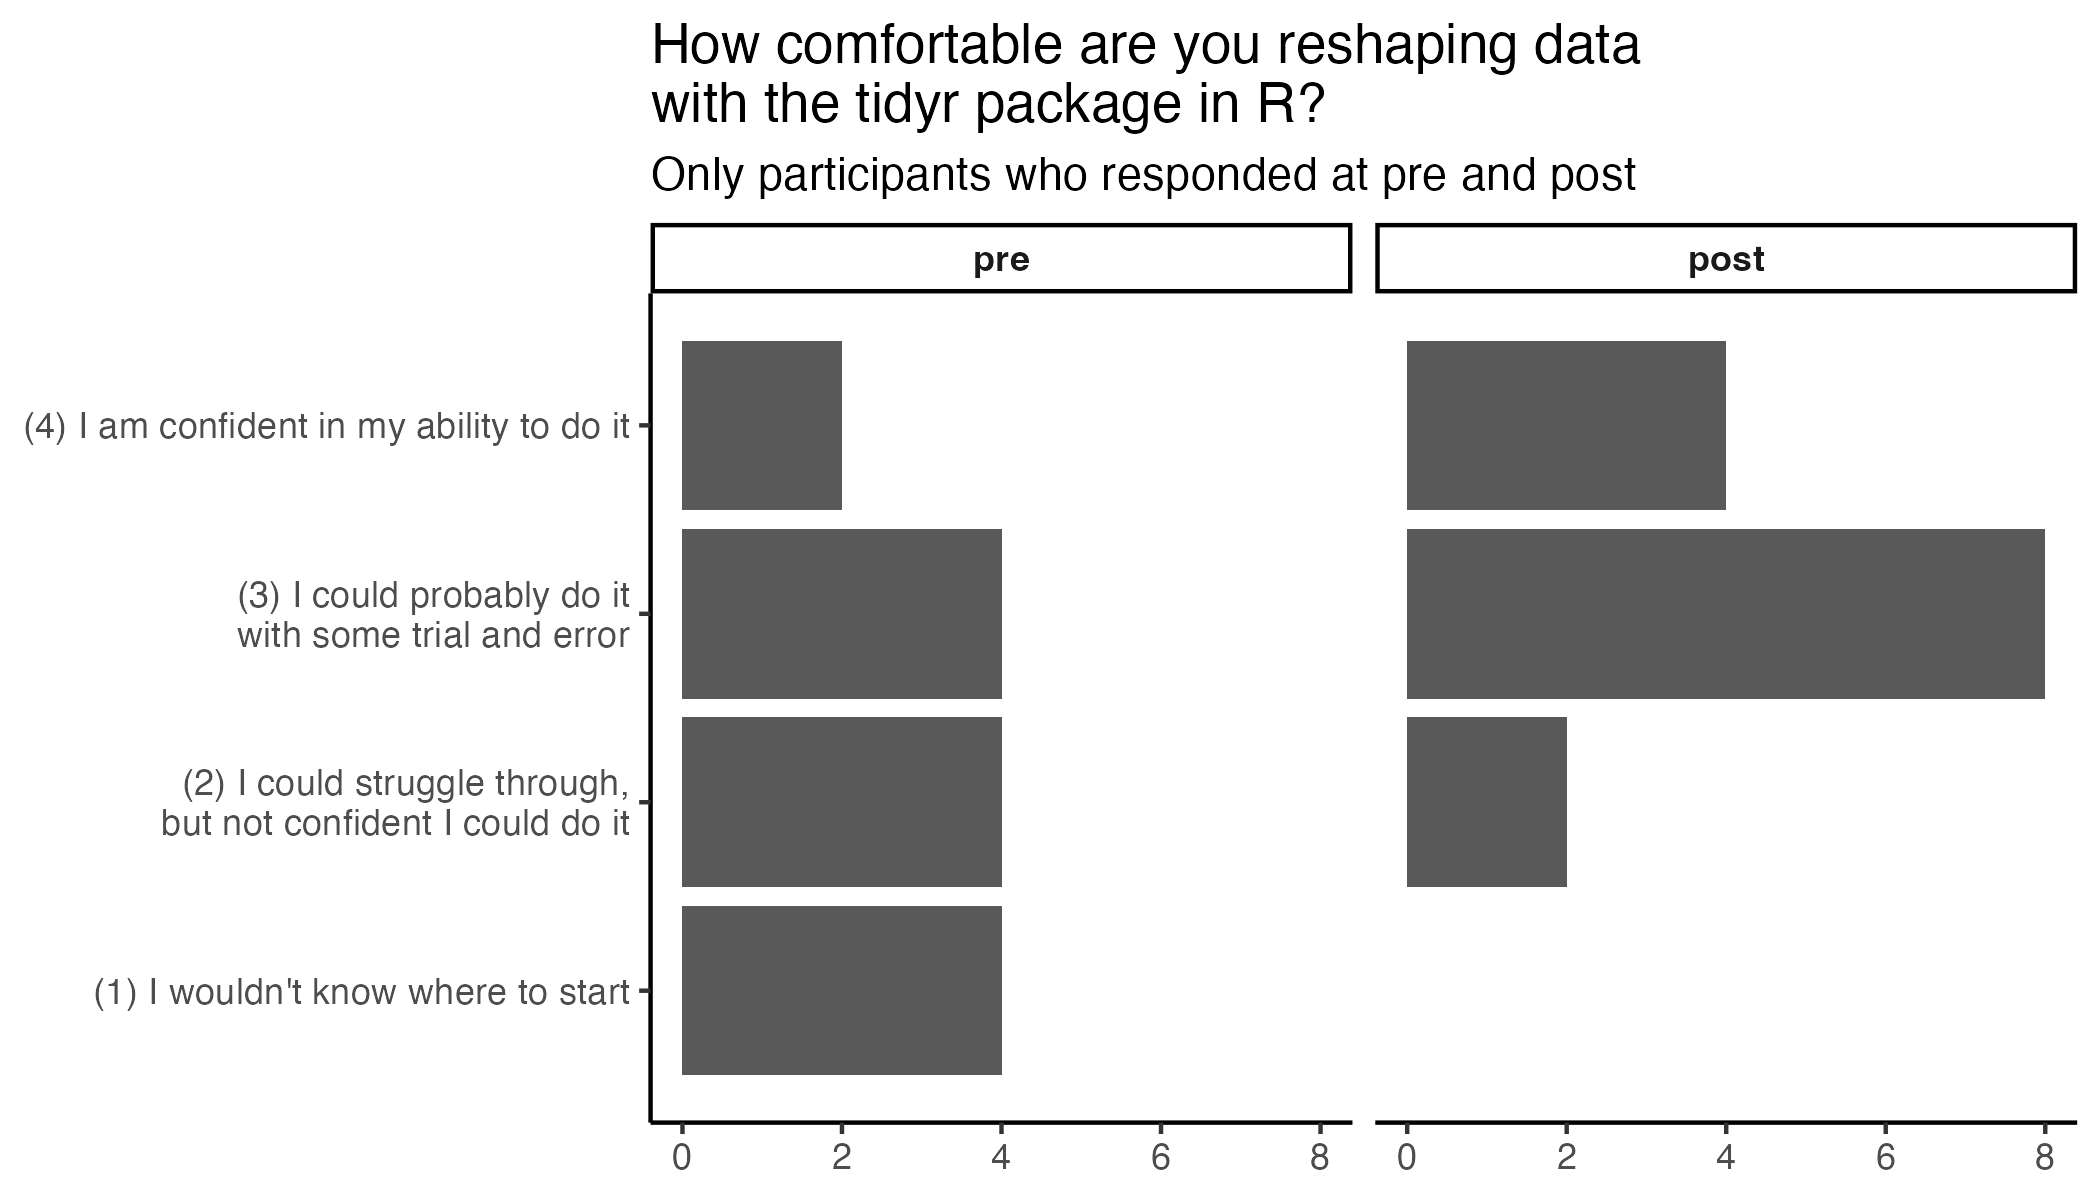
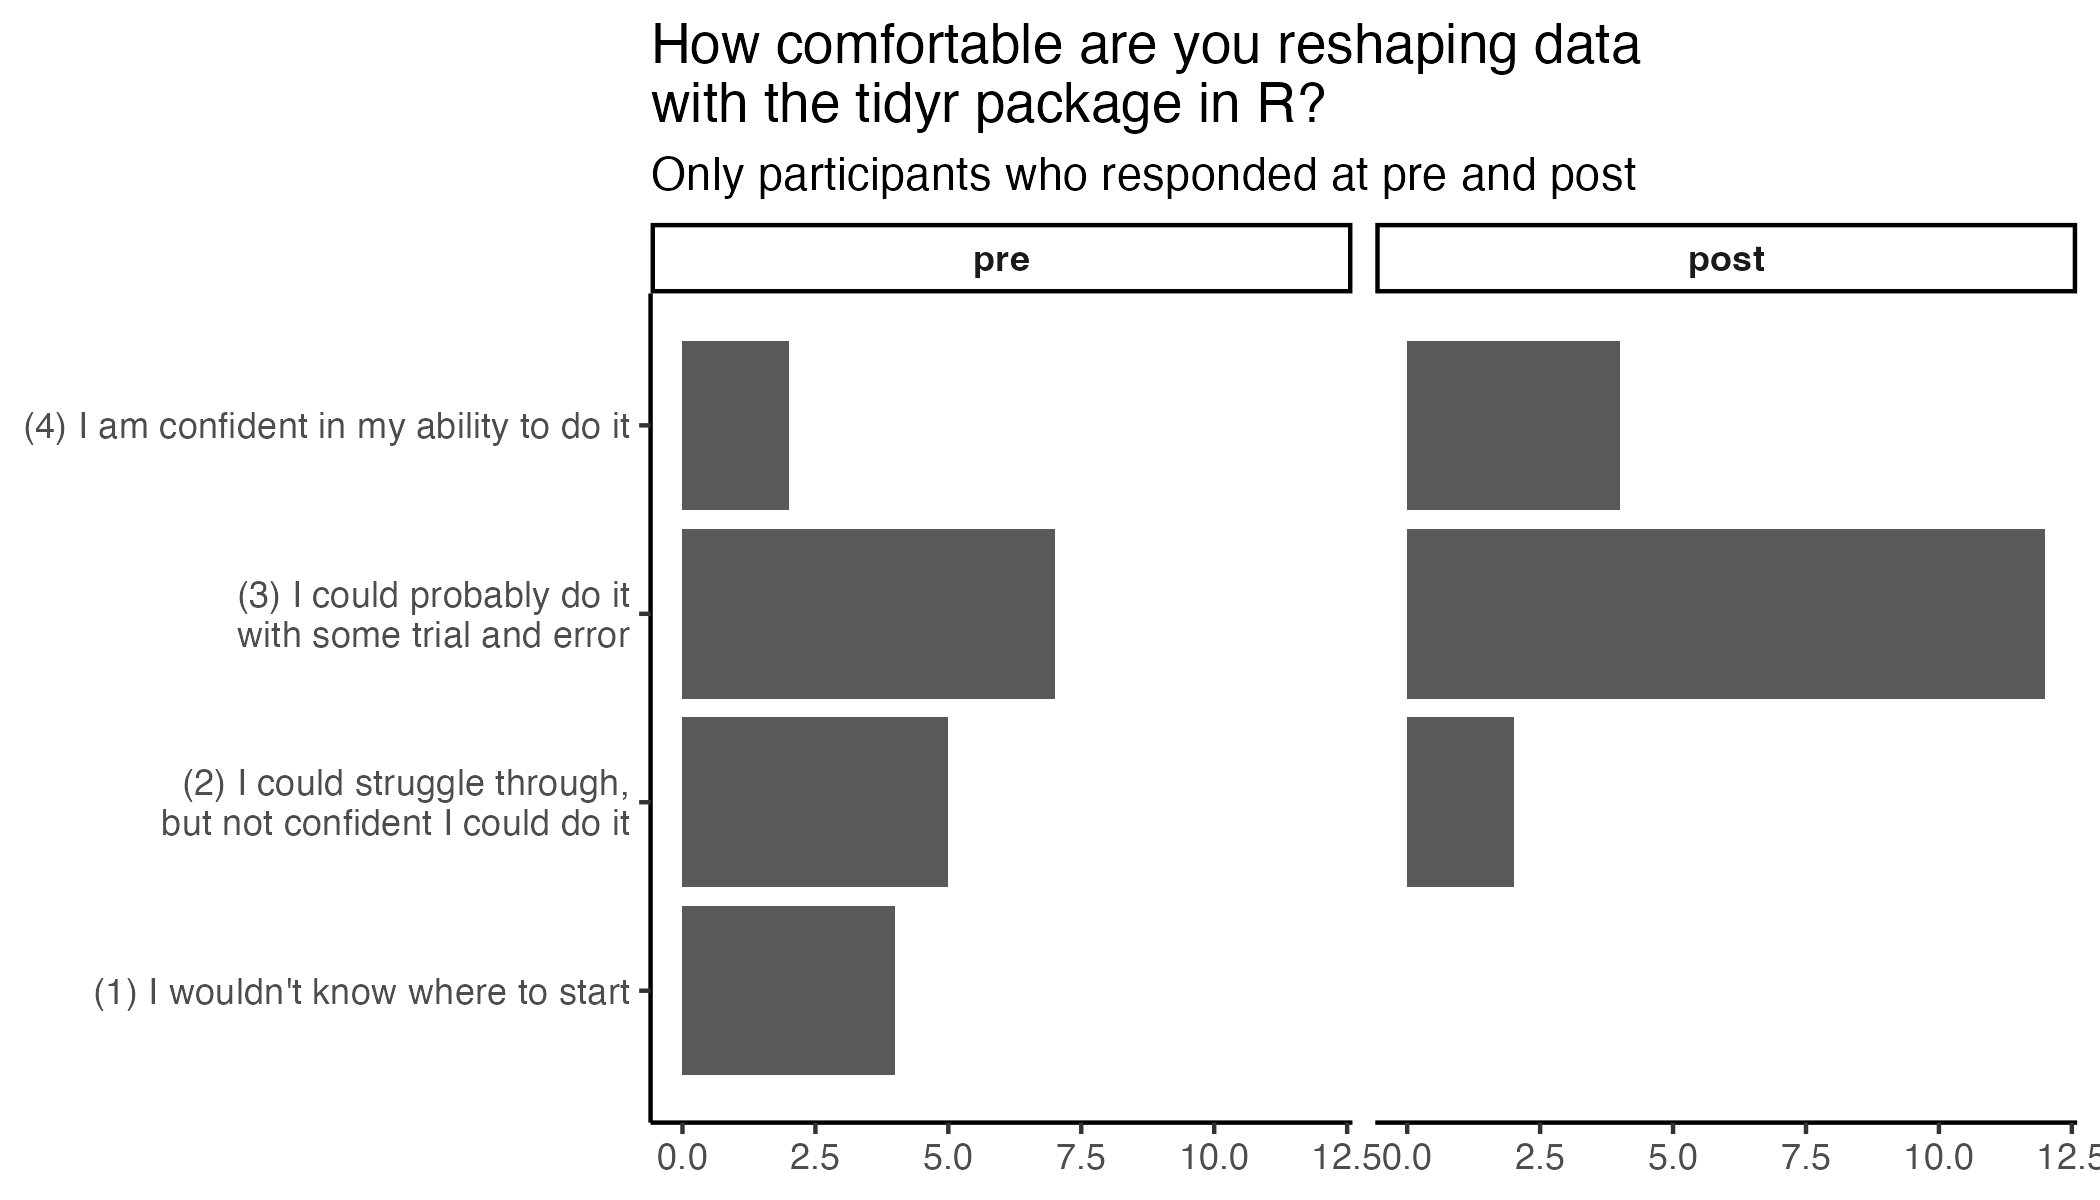
Updating with fresh data

diff --git a/for_organizers/analysis.md b/for_organizers/analysis.md
@@ -1,7 +1,7 @@
 R102 Workshop Analysis
 ================
 Rose Hartman
-2024-05-21
+2024-05-28
 
 ``` r
 library(ggplot2)
@@ -237,7 +237,7 @@ ggsave("prepost_03_all.png",
        height = 4, width = 7, units = "in")
 ```
 
-    ## Warning: Removed 289 rows containing non-finite outside the scale range
+    ## Warning: Removed 291 rows containing non-finite outside the scale range
     ## (`stat_count()`).
 
 ![](prepost_03_all.png)
@@ -291,7 +291,7 @@ ggsave("prepost_04_all.png",
        height = 4, width = 7, units = "in")
 ```
 
-    ## Warning: Removed 260 rows containing non-finite outside the scale range
+    ## Warning: Removed 262 rows containing non-finite outside the scale range
     ## (`stat_count()`).
 
 ![](prepost_04_all.png)
@@ -330,7 +330,7 @@ afterward, t(27) = 3.29, p = .003.
 
 202 signups.
 
-17 responses on post-workshop survey.
+22 responses on post-workshop survey.
 
 All available responses at pre and post:
 
@@ -345,7 +345,7 @@ ggsave("prepost_05_all.png",
        height = 4, width = 7, units = "in")
 ```
 
-    ## Warning: Removed 271 rows containing non-finite outside the scale range
+    ## Warning: Removed 269 rows containing non-finite outside the scale range
     ## (`stat_count()`).
 
 ![](prepost_05_all.png)
@@ -378,11 +378,11 @@ may_test <- t.test(r102$tidyr_2, r102$tidyr, paired = TRUE)
 
 We saw significant improvement from pre to post after the Reshaping Data
 with tidyr session, with respondents reporting higher ability afterward,
-t(13) = 2.92, p = .012.
+t(17) = 3.01, p = .008.
 
 ## Data types and viz
 
-215 signups.
+217 signups.
 
 0 responses on post-workshop survey.
 
